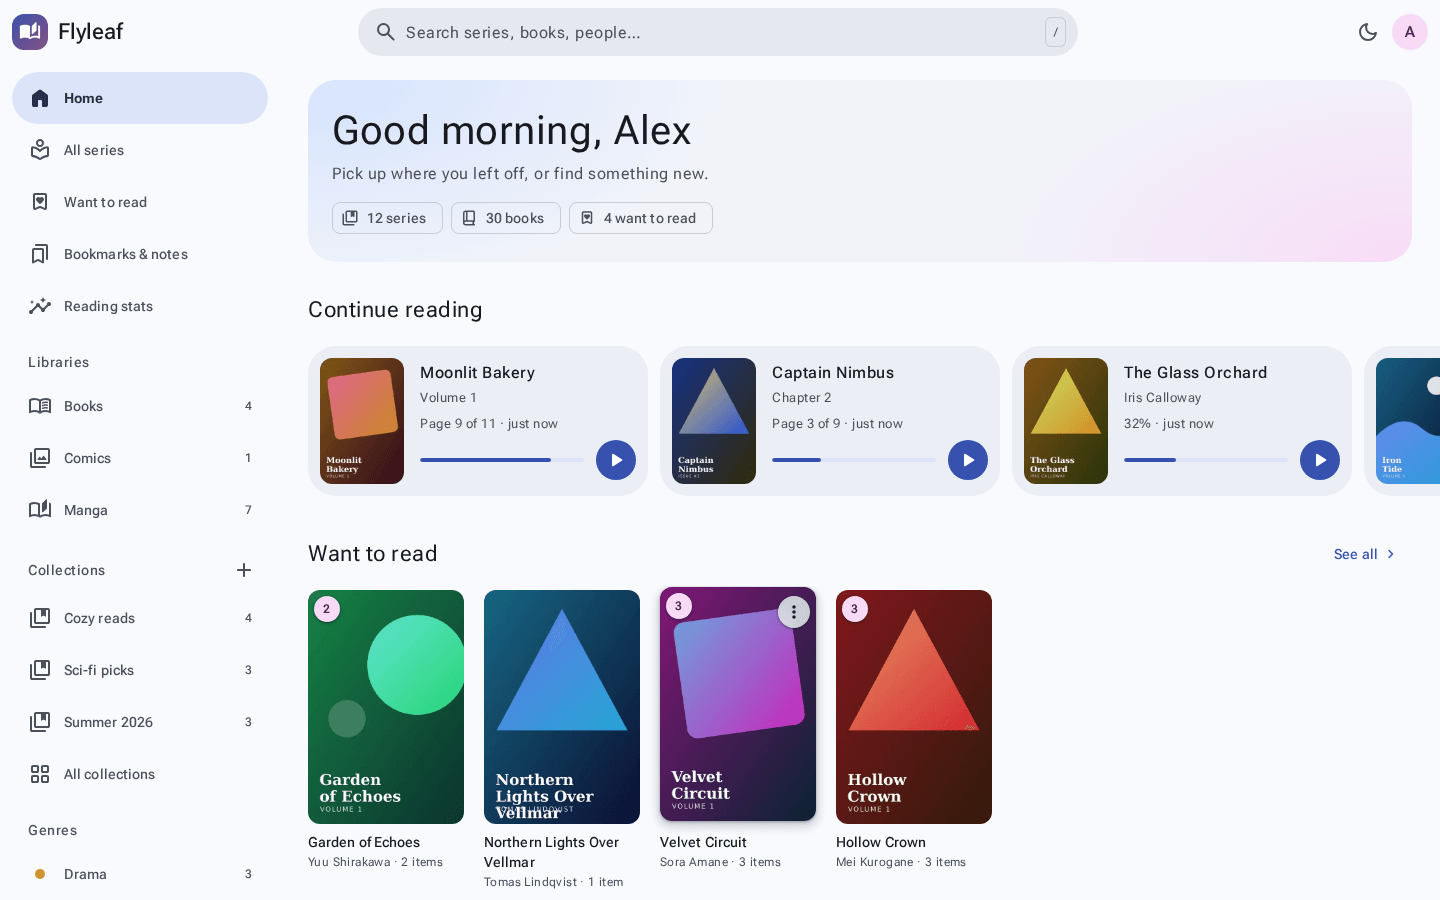
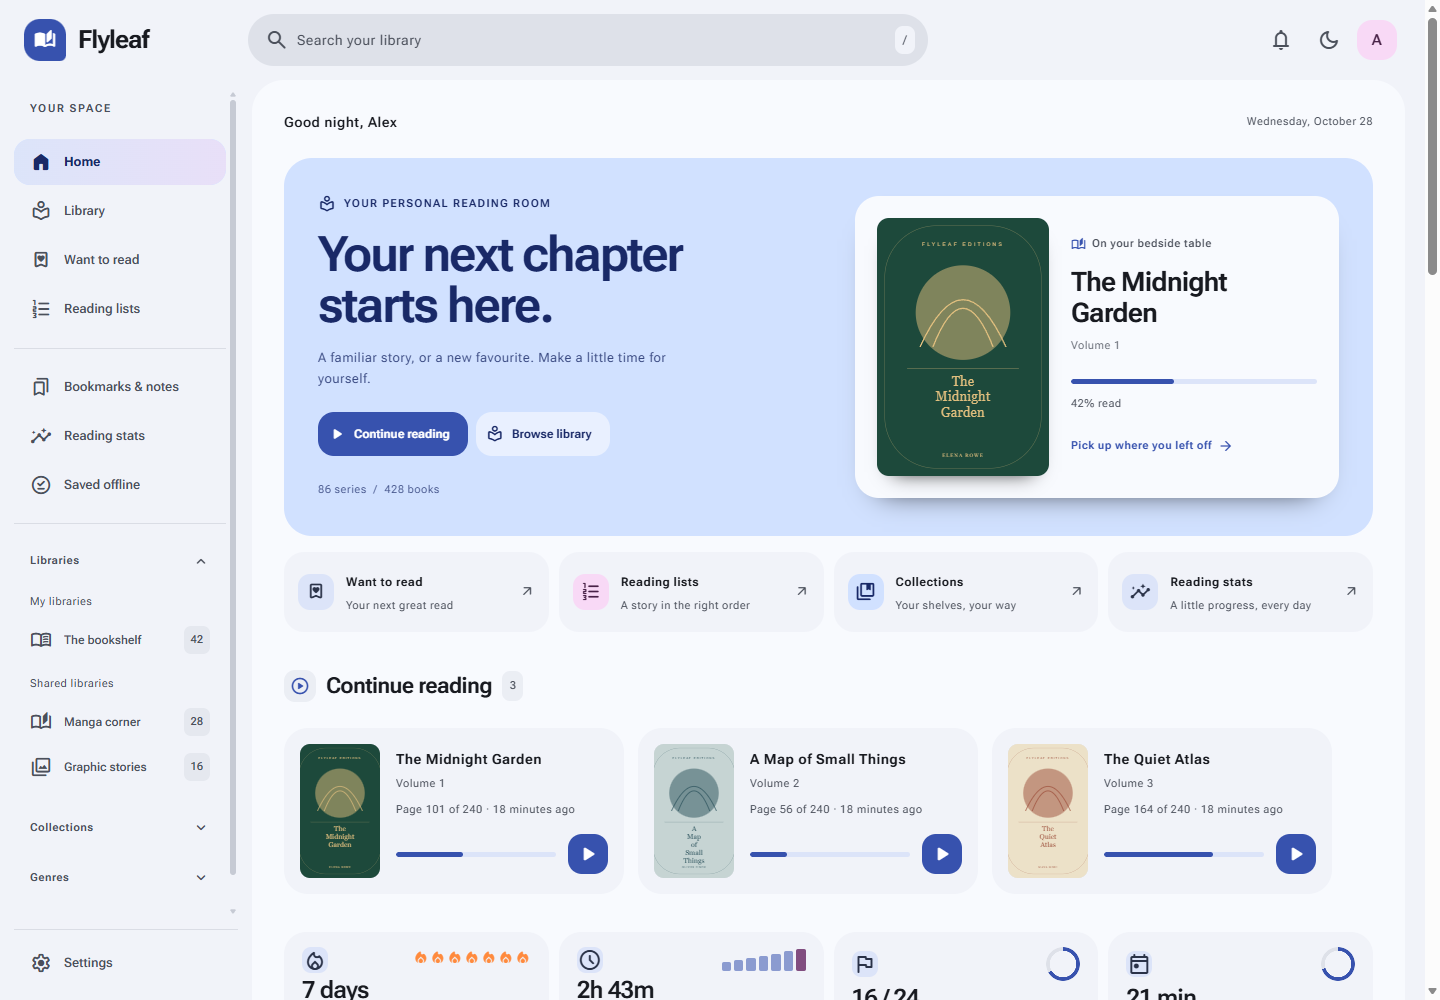
Refresh README and add screenshot tooling
Rewrite the README to highlight Flyleaf’s features, formats, setup, and refreshed screenshot gallery. Add scripts to serve fictional demo data and capture updated desktop and mobile screenshots.

diff --git a/README.md b/README.md
@@ -1,211 +1,77 @@
 <div align="center">
 
-<img src="public/icons/icon-192.png" width="96" alt="Flyleaf logo" />
+<img src="public/icons/icon-192.png" width="80" alt="Flyleaf logo" />
 
 # Flyleaf
 
-**Your self-hosted library for books, manga and comics — with a beautiful Material 3 reader that works in any browser and installs like an app on your iPhone.**
+**Your library. Your place to read.**
+
+A self-hosted reading home for ebooks, manga, comics, and audiobooks. Organize your collection, pick up where you left off, and read or listen from your browser—or install Flyleaf on your phone.
 
 ![Node.js 22.13+](https://img.shields.io/badge/node-%E2%89%A522.13-3c873a?logo=node.js&logoColor=white)
 ![Material 3](https://img.shields.io/badge/design-Material%203-6750a4?logo=materialdesign&logoColor=white)
-![PWA](https://img.shields.io/badge/iPhone-web%20app-000000?logo=apple&logoColor=white)
-![OPDS](https://img.shields.io/badge/OPDS-1.2%20%2B%20PSE-e86f2b)
+![PWA](https://img.shields.io/badge/mobile-installable%20web%20app-6750a4)
 ![License: MIT](https://img.shields.io/badge/license-MIT-blue)
 
-<img src="docs/screenshots/hero.png" alt="Flyleaf on desktop and iPhone" width="100%" />
+[Get started](#-installation) · [Screenshots](#screenshots) · [Changelog](CHANGELOG.md) · [Roadmap](ROADMAP.md)
+
+<img src="docs/screenshots/desktop-home.png" alt="Flyleaf home with reading goals, continue reading, and a library of illustrated book covers" width="100%" />
 
 </div>
 
-## ✨ Features
+## A home for your whole collection
 
-<table>
-<tr>
-<td width="50%" valign="top">
+Flyleaf brings your files, reading progress, and discoveries together in a responsive Material 3 interface. Add existing folders, import a Calibre library, or upload books from another device. Watched folders keep the catalog up to date, while metadata, artwork, and personal shelves help you find your next read.
 
-### 📚 Every format you own
-- **Ebooks:** EPUB · KEPUB · MOBI · AZW · AZW3 · FB2 · PDF · **DOCX · RTF** · TXT
-- **Comics & manga:** CBZ · ZIP · CBR · RAR · CB7 · 7Z · CBT · TAR · plain image folders
-- Comic archives are **read in place**: pages come straight out of the CBZ/CBR/CB7/CBT, so nothing is unpacked to disk (solid RAR included)
-- Archives are identified by their *contents*, so a `.cbr` that's really a zip still works
-- DOCX, RTF and TXT open in the ebook reader with chapters, highlights and notes
-- Reads **ComicInfo.xml**, EPUB/Calibre metadata, MOBI EXTH and FB2 headers
+- **Read your way.** Dedicated ebook, comic, and PDF readers with adjustable typography, themes, reading profiles, and page turns. Comics support right-to-left reading, smart spreads, webtoon scrolling, zoom, border cropping, and image filters.
+- **Listen alongside your books.** Audiobooks include chapters, playback speed, a sleep timer, lock-screen controls, synced progress, and offline listening.
+- **Make the library yours.** Collections, smart shelves, reading lists, tags, full-text search, recommendations, ratings, and reviews. Track books, pages, reading time, streaks, and yearly goals.
+- **Keep your place and your ideas.** Per-user reading progress, bookmarks, highlights, and notes. Export annotations to Markdown, CSV, Obsidian, or Readwise. Save books for offline reading and sync progress when you reconnect; offline features require HTTPS or localhost.
+- **Discover and follow.** Content Finder searches built-in catalogs and plugin sources, downloads into your library, and follows series for new chapters. Extend it with Lua plugins or Mihon/Tachiyomi extensions through Suwayomi.
+- **Share on your terms.** Separate accounts, personal libraries, optional registration, library permissions, age limits, and storage quotas. Admin tools include activity logs, duplicate cleanup, and scheduled backups.
+- **Connect your reading tools.** OPDS 1.2, OPDS 2.0, and OPDS-PSE feeds; AniList, MyAnimeList, MangaUpdates, and Kitsu tracking; email delivery to Kindle or Kobo; API keys, REST endpoints, and signed webhooks.
 
-### 📖 Readers built for reading
-- **Manga & comics:** single page, **dual-page spreads**, **webtoon / continuous scroll**, **right-to-left**, fit screen/width/height/original, **page splitting** for double-page scans, custom background colour
-- **Ebooks:** paginated or scrolling, 1–2 columns, themes (Paper, Sepia, Dark, OLED Black), **font family**, size, line spacing, margins, justification & hyphenation
-- **Tap to paginate**, swipe, **immersive mode**, **auto-hide menu** (or keep it until you tap the middle of the page), fully **customisable key binds**
-- **Reading profiles** – save a set of reader settings and assign it to libraries or series
+### Formats at a glance
 
-### ✍ Built-in annotations
-- **Highlights** in five colours plus underline, with **notes**
-- **Bookmarks** for any page in any format
-- A **Bookmarks & notes** page that gathers everything across your library, sorted by newest, oldest, book title or position in the book
+| Collection | Supported formats |
+|---|---|
+| Ebooks & documents | EPUB, KEPUB, MOBI, AZW, AZW3, FB2, PDF, DOCX, RTF, TXT |
+| Comics & manga | CBZ / ZIP, CBR / RAR, CB7 / 7Z, CBT / TAR, image folders |
+| Audiobooks | M4B, M4A, MP3, OGG, OPUS, FLAC; folders of tracks |
 
-</td>
-<td width="50%" valign="top">
+Comic archives are read in place without unpacking the entire collection to disk. Flyleaf reads embedded metadata and ComicInfo.xml, imports Calibre metadata, and can match titles against external book, manga, and comic catalogs.
 
-### 🗂 Organised your way
-- Choose **Regular books** (each book stands alone; series only from embedded metadata), **Kavita-style** (series from file names & metadata) or **Komga-style** (every folder is a series) per library
-- **Want to read**, **custom collections**, personal **reading status** & **tags**, **genres**, people pages
-- **Related series** (sequels, spin-offs…), age ratings, publication status
-- Sort by **title A–Z / Z–A**, **author**, date added, last read, year or last updated, with an **A–Z jump bar**
-- **Search that ranks**: exact titles first, words matched from their start (so “it” doesn't find *Kitchen*), accents ignored
-- **More like this** on every series page and in each book's Details, from shared genres, tags and creators
-- **Recommended for you** on Home: picks from what you read, finish and save, each with a reason (“Because you finished *Berserk*”)
-- **Discover in Content Finder**: the same taste searched on your Content Finder sources, so suggestions include books you don't have yet, one tap from downloading
+### Built for your server, available on your devices
 
-### 🔎 Metadata & artwork
-- Scrape from **AniList · MangaDex · MyAnimeList · MangaUpdates · ComicVine · Open Library · Google Books**
-- Optional **automatic matching** of new series, including artwork
-- Full **metadata editor** – titles, summary, genres, tags, writers & artists, links to MAL/AniList and others, custom artwork
-- **Blur artwork** per series for NSFW covers (and auto-blur 18+)
+Run Flyleaf with Docker, a Linux systemd install, or Node.js. The frontend uses plain JavaScript modules with no build step, and the server uses SQLite. Open the same library on desktop, tablet, or phone, with light and dark themes, custom colors, and an installable web app.
 
-### 🌐 Share & sync
-- **Admin + read-only guest accounts** – share over the internet with port forwarding
-- **Optional sign-up page** for a publicly hosted Flyleaf: people create their own account (optionally with an invite code) and get their own Books, Comics and Manga libraries
-- Per-user **progress, resume, reading time & stats** and **reading lists**
-- Per-user **age limits**, **library access** and **permissions** (downloads, uploads, Content Finder, deleting books, API keys)
-- **Delete books** from the ⋮ menu: users can delete books in their own libraries and ones they downloaded, never other books in shared libraries
-- **Move books and series** to another of your libraries from the ⋮ menu (*Move to library…*): the files move on disk, and reading progress, bookmarks, notes, collections and Want to read come along
-- **Personal folders**: every new user gets their own folder (`data/content/<username>`) with ready-made **Books, Comics and Manga** libraries, which their downloads and uploads go into
-- **OPDS 1.2 + OPDS-PSE** for Panels, Chunky, KOReader, Moon+ … with progress sync
-- **Send to Kindle / Kobo** by email, download single books or whole series
+KOReader progress sync and direct Kobo device sync are implemented with limitations; see [device setup and current limitations](docs/device-sync.md) before relying on them. See [tracking setup](docs/tracking.md), [plugin development](docs/plugins.md), and [translations](docs/translating.md) for more ways to customize your installation.
 
-### ⬆ Upload from any device
-- An **Upload** tab: drag and drop files or whole folders, pick the library and folder (or create one), and optionally add the new series to a collection
-- Live per-file progress, uploads keep going if you switch pages, and the library rescans when they finish
+## Screenshots
 
-### 🧭 Content Finder & plugins
-- A **Content Finder** tab that searches **Project Gutenberg**, **Standard Ebooks**, the **Internet Archive**, **Archive of Our Own** (fan fiction), **WEBTOON** and any **OPDS catalog**, and downloads straight into a library
-- **Lua plugins**, Mihon/Tachiyomi-style: install from repositories, URLs or files, or [write your own](docs/plugins.md)
-- **Mihon/Tachiyomi extensions** through a built-in, Flyleaf-managed [Suwayomi-Server](https://github.com/Suwayomi/Suwayomi-Server) (or your own): every extension becomes a source, chapters download as CBZ, and old Tachiyomi **APKs can be installed from a file**
+Fresh captures of the current interface using a fictional demo library. Book titles, authors, and covers are sample content. Desktop captures are 1440 × 1000; phone captures are 390 × 844.
 
-### 🔌 REST API & webhooks
-- A full **REST API** with read-only or full-access **API keys**, plus an **OpenAPI 3.1** spec and a built-in endpoint reference
-- **Signed webhooks** for new books, finished books, progress, downloads and scans
-
-### 🎨 Feels like an app
-- Material 3 throughout: **9 themes** + any custom colour, light/dark/auto
-- **Colorscape** – series pages tint themselves from their artwork
-- **Profile pictures** and a personal **background** – your own picture, animated GIF or image link, with dim, blur and fit controls
-- Smooth, direction-aware **page transitions**, skeleton loading, scroll-in reveals, 3D cover tilt, a circular dark-mode reveal and springy controls (or turn them all off)
-- **Book details** for every file: format, pages, size, location, ISBN, publisher, your reading time and an estimate of time left, plus a detailed list view for volumes
-- **iPhone/Android web app** – full-screen, home-screen icon, safe-area aware
-
-</td>
-</tr>
-</table>
-
----
-
-## 🆕 What's new
-
-The full list is in [CHANGELOG.md](CHANGELOG.md) – and in the app: after an update everyone sees a small *What's new* card once, and the whole changelog is under *What's new* in the account menu.
-
-- 📕 **Book look & page turns** – a *Book* look (paper pages, page edges, a spine) or an *E-ink* look for every kind of book, and pages that turn over in 3D like a real book (*Reader settings → Look / Page turn*).
-- 📖 **Look up while reading** – select text in an ebook for a dictionary definition (Wiktionary), a Wikipedia summary or a translation (`LOOKUP=0` turns it off).
-- ✂ **Auto-crop & image filters** – trim blank borders from scans, whiten yellowed paper, and set brightness, contrast, greyscale or invert for comics and manga.
-- 📝 **Footnote pop-ups** – tap a footnote or endnote marker in an ebook and the note opens in place, with *Go to note* to jump there.
-- 🔤 **Your own fonts** – anyone can upload .ttf, .otf, .woff or .woff2 fonts for the ebook reader (*Settings → EPUB fonts*); the admin can share fonts with everyone.
-- 📤 **Export highlights & notes** – Markdown, CSV, an Obsidian vault (one note per book), a Readwise import file, or straight to Readwise with your access token.
-- 📣 **What's new** – a post-update card, read from CHANGELOG.md.
-
-- 👀 **New files show up within seconds** – library folders are watched for changes, so files you copy in, rename or delete appear without waiting for the next scan (`WATCH_FOLDERS`). Network shares that don't report changes still get the scheduled scan.
-- 🗂 **Smart shelves** – set filters on any list (unread + ongoing + Action, say) and save them as a shelf on Home and in the side menu. Shelves stay up to date as your library changes.
-- 📚 **Reading lists** – read across series in order (comic events, crossovers): add books or whole series from their menus, reorder them, and the reader's *Next* follows the list. Import and export **ComicRack .cbl** files.
-- 🎯 **Pages-per-year goal** – set a page goal alongside your books goal. Comic and PDF pages count as you turn them; ebook pages are estimated from their length.
-
-- 📜 **Webtoon auto-scroll** – press play in the reader menu (or `P`) and the strip scrolls by itself at one of ten speeds (`-` / `=`). Touching the screen pauses it while your finger is down.
-- 🏁 **Chapter end screen** – after the last page you get a page showing the next volume or chapter with its cover, page count and where you left off; turn the page again (or tap *Read next*) to carry on.
-- 📖 **Smart double pages** – in double-page mode, wide two-page scans are shown on their own and the pages after them stay paired correctly. *Cover on its own* is a setting too.
-
-- 📋 **Activity log** – *Settings → Activity* shows who signed in, downloaded, uploaded, deleted or changed what, and when, filtered by person or kind, with a CSV export.
-- 🚨 **Failed sign-in alerts** – the same page lists failed sign-ins by address and account name and lets you unblock an address; admins get a notification when someone keeps guessing.
-- 💽 **Storage limits** – a storage quota for each personal folder (a server default, overridable per user), the largest upload, and how much free disk space to keep. Users see how much room they have left.
-- 🔔 **Follow from the series page** – series that came from Content Finder get a *New chapters* panel: follow, switch auto-download on or off, and watch new chapters download.
-
-- 🔎 **Search inside every book** – the search page also finds words and phrases inside EPUB, FB2, TXT, DOCX, RTF and text PDFs across your libraries, with the matching passages; open one and the book jumps to that chapter.
-- 🎧 **Audiobooks** – M4B, M4A, MP3, OGG, OPUS and FLAC in book libraries (a folder of tracks is one audiobook), with chapters, speed, a sleep timer, lock-screen controls, synced progress and offline listening. An audiobook with the same title and author as an ebook sits in the same series.
-- 📚 **Calibre libraries** – point a library at a Calibre folder and its titles, series, tags, descriptions, covers and ratings come with it (and stay in sync when `metadata.db` changes).
-- 🧹 **Duplicates** – *Settings → Libraries → Find duplicates* shows identical files and the same book or volume in several places; keep one copy and everyone's progress and notes move to it.
-- 🕳 **Missing volumes** – series pages show gaps (“Volumes 1–4, 6 · missing 5”).
-- 🗓 **Scheduled backups** – daily or weekly, keeping the newest N, optionally on another disk.
-- 🌍 **Translations** – a language setting, a Spanish translation of the main screens, and [a guide for adding languages](docs/translating.md).
-
-- 🔔 **Follow series for new chapters** – tap *Follow* on a manga or comic in Content Finder and Flyleaf checks it every few hours, downloading new chapters into your library (or just telling you). *Watch my downloads* matches everything you've already downloaded to its source too, so you hear about newer chapters. See *Content Finder → Following*.
-- 🛎 **Notifications bell** in the top bar (desktop and phone): new chapters, finished or failed downloads, and for admins sign-ups and uploads.
-- 📴 **Read offline** – *Save for offline* on any book (or *Save next 3* on a series) keeps it on your phone or computer. It opens without a connection, and your progress syncs when you're back online. Needs HTTPS.
-- 🔍 **Search inside a book** – the search button in the reader (or `/`, Ctrl+F) finds every match in an EPUB, MOBI, FB2 or text-based PDF, with the text around it.
-
-- 🎯 **Reading goals & year in review** – a yearly books goal and a daily minutes goal with progress rings, a year-long reading heat map, your longest streak, and a *Year in review* page with your top series, genres and writers, month-by-month time and a card you can share.
-- ⭐ **Ratings & reviews** – rate series in half stars and write reviews (with spoiler blur) that everyone on your server can read. The admin can remove any review.
-- 💾 **Backup & restore** – *Settings → Backup & restore* downloads the database on its own or together with every book file, and restores either one. A fresh install can start from a backup on its setup page.
-- 🔔 **Push notifications** – finished and failed downloads, new books in your libraries, and (for admins) sign-ups and uploads, on your phone or computer (*Settings → Notifications*, needs HTTPS).
-- 🛡 **Review what users add** – *Settings → Users* shows how many books each person downloaded or uploaded, per library, and the admin can open the list and delete anything that breaks the rules.
-- 🐳 **Docker image**, **OPDS 2.0** feeds, a `/api/health` check and **Prometheus metrics**.
-- 🔐 **New sign-in and sign-up pages** with an animated background.
-
-- 📜 **WEBTOON downloads** – a WEBTOON source for Content Finder: search Originals and Canvas, download episodes as CBZ, and they open in webtoon (vertical scroll) mode.
-- 🧭 **Discover in Content Finder** – recommendations from outside your library: Flyleaf searches your Content Finder sources for the authors and genres you like and suggests what you don't have yet. Pick which sources it uses in *Settings → Preferences*.
-- 🧩 **One-click Mihon repositories** from [wotaku.wiki](https://wotaku.wiki/ext/mihon) and [Yūzōnō](https://yuzono.github.io/extensions), support for Mihon's newer `index.pb` repositories (Keiyoushi's full 1,400+ extensions) on Suwayomi v2.3+, and pasted `mihon://` links just work.
-- 💡 **Recommendations** – a *Recommended for you* shelf on Home (and a full page) built from your own reading, plus *You might also like* in every book's Details. It all runs on your server, with no AI service or account needed.
-- 🖼 **Make it yours** – profile pictures, and a per-user background picture or GIF behind the whole app (*Settings → Themes → Background*).
-- 🔎 **Better search & sorting** – ranked search results, title A–Z / Z–A and author sorts with an A–Z jump bar, bookmark sorting, and **More like this** recommendations on series pages.
-- 🔗 **Share links that work at home** – *Send to… → Copy home-network link* gives the server's LAN address (like `http://192.168.1.20:7878`) instead of whatever address your browser used; *Copy internet link* uses your Public URL.
-- 🏷 New genres, libraries and collections appear in the side menu without reloading.
-- 📁 **Personal folders** – the admin can give each user a folder on the server. They create private libraries in it, and their Content Finder downloads and uploads go only there.
-- ⬆ **Upload tab** – drag and drop books, comics or whole folders into any library folder from your phone or computer, with live progress, and add the new series straight to a collection.
-- ℹ **Book details** – a Details panel for every file (format, pages, size, location, ISBN, publisher, your reading time and time left), a detailed list view for volumes, and more facts on series pages.
-- ✨ **Smoother motion** – direction-aware page transitions, skeleton loading, scroll-in reveals, 3D cover tilt, a circular dark-mode reveal, and closing animations for dialogs, menus and sheets.
-- 🧩 **Mihon/Tachiyomi extensions** through Suwayomi-Server, and the **Content Finder** with Lua plugins.
-- 🔌 **REST API & webhooks**, **DOCX/RTF** support, comic archives **read in place**, and per-guest **library access & permissions**.
-
-## 📸 Screenshots
-
-<table>
-<tr>
-<td colspan="2"><img src="docs/screenshots/desktop-home.png" alt="Home" /><p align="center"><b>Home</b> – continue reading, want to read, collections & genres in the drawer</p></td>
-</tr>
-<tr>
-<td width="50%"><img src="docs/screenshots/desktop-library.png" alt="Library" /><p align="center"><b>Library</b> – filters, genres, sort, ⋮ actions on every card</p></td>
-<td width="50%"><img src="docs/screenshots/desktop-series-dark.png" alt="Series overview" /><p align="center"><b>Series overview</b> – artwork, creators, links, status, tags, volumes</p></td>
-</tr>
-<tr>
-<td><img src="docs/screenshots/desktop-reader-ebook.png" alt="Ebook reader with highlights" /><p align="center"><b>Ebook reader</b> – highlights, notes & a selection toolbar</p></td>
-<td><img src="docs/screenshots/desktop-reader-settings.png" alt="Manga reader settings" /><p align="center"><b>Manga reader</b> – layout, direction, scaling, page splitting</p></td>
-</tr>
-<tr>
-<td><img src="docs/screenshots/desktop-themes.png" alt="Themes" /><p align="center"><b>Themes</b> – presets or any colour you like</p></td>
-<td><img src="docs/screenshots/desktop-add-library.png" alt="Add library" /><p align="center"><b>Add library</b> – Regular books, Kavita or Komga folder structure</p></td>
-</tr>
-<tr>
-<td><img src="docs/screenshots/desktop-finder.png" alt="Content Finder" /><p align="center"><b>Content Finder</b> – search every plugin source at once</p></td>
-<td><img src="docs/screenshots/desktop-finder-details.png" alt="Content Finder details" /><p align="center"><b>Download</b> – pick a format and a library</p></td>
-</tr>
-</table>
-
-<table>
-<tr>
-<td><img src="docs/screenshots/mobile-home.png" alt="Phone – home" /></td>
-<td><img src="docs/screenshots/mobile-series.png" alt="Phone – series" /></td>
-<td><img src="docs/screenshots/mobile-drawer.png" alt="Phone – navigation drawer" /></td>
-<td><img src="docs/screenshots/mobile-ebook-settings.png" alt="Phone – ebook settings" /></td>
-</tr>
-</table>
+| Browse your library | Explore a series |
+|---|---|
+| ![Library grid with reading filters and book covers](docs/screenshots/desktop-library.png) | ![Dark series page with artwork, reading actions, and volume details](docs/screenshots/desktop-series-dark.png) |
 
 <details>
-<summary><b>More screenshots</b></summary>
+<summary>Personalize your reading space</summary>
 
-| | |
-|---|---|
-| ![Search](docs/screenshots/desktop-search.png) | ![Card actions](docs/screenshots/desktop-actions.png) |
-| ![Bookmarks](docs/screenshots/desktop-bookmarks.png) | ![Stats](docs/screenshots/desktop-stats.png) |
-| ![Preferences](docs/screenshots/desktop-preferences.png) | ![OPDS](docs/screenshots/desktop-opds.png) |
-| ![Manga reader](docs/screenshots/desktop-reader-manga.png) | ![Home (dark)](docs/screenshots/desktop-home-dark.png) |
+![Preferences with language, appearance, data saver, and motion controls](docs/screenshots/desktop-preferences.png)
 
 </details>
 
-> The screenshots use a generated demo library – the series, authors and covers are made up.
+<table>
+<tr>
+<td width="33%"><img src="docs/screenshots/mobile-home.png" alt="Phone home screen with reading goals and continue reading" /></td>
+<td width="33%"><img src="docs/screenshots/mobile-series.png" alt="Phone series page with cover and reading actions" /></td>
+<td width="33%"><img src="docs/screenshots/mobile-drawer.png" alt="Phone navigation drawer with libraries and personal shelves" /></td>
+</tr>
+<tr><td align="center">Home</td><td align="center">Series</td><td align="center">Navigation</td></tr>
+</table>
+
+The gallery renders the app's actual frontend against demo API data. To refresh it, run `node scripts/screenshot-server.cjs`, launch a headless Chromium browser with `--remote-debugging-port=9231` and a temporary `--user-data-dir`, then run `node scripts/capture-screenshots.cjs`. Use `SCREENSHOT_CDP` to override the browser endpoint.
 
 ---
 
